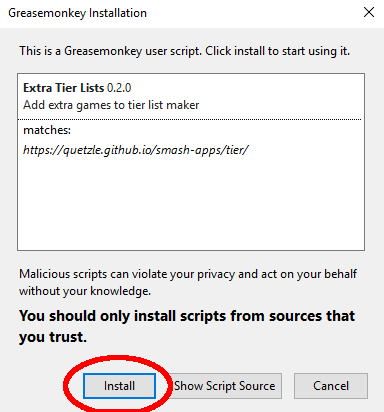
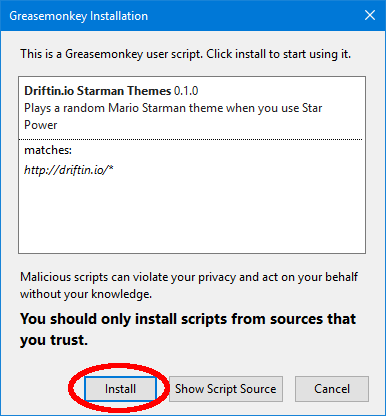
Update resources
Script install screenshots updated and audio "sprite sheet" URL updated

diff --git a/driftin/starman-audioSprite.js b/driftin/starman-audioSprite.js
@@ -1,5 +1,5 @@
 function starmanSprite() {
-  this.audio = new Audio("https://kaloncpu57.github.io/io-scripts/starman-sprite.mp3");
+  this.audio = new Audio("https://kaloncpu57.github.io/io-scripts/driftin/starman-sprite.mp3");
   var a = this.audio;
   var end = 0;
 
